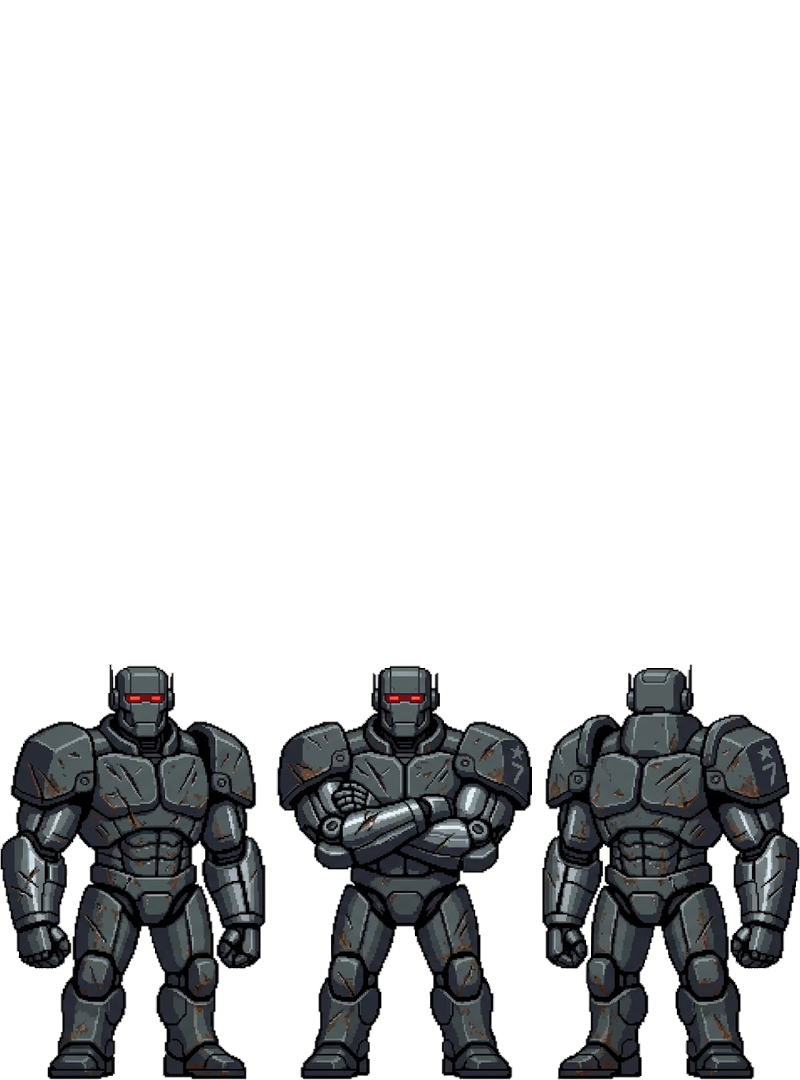
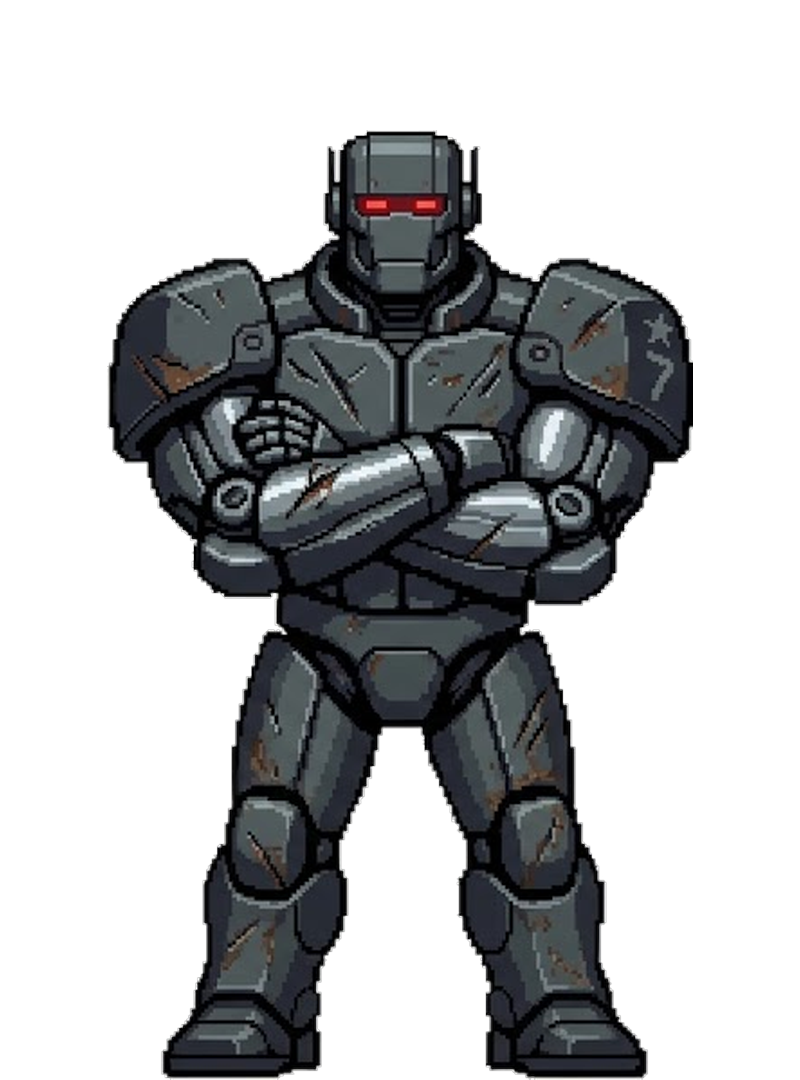
Corrigido Unit-7 triplicado e atualizada galeria no GDD
- Sprite Unit-7 (v1.0) havia sido gerado com 3 instancias identicas do robo
  lado a lado no PNG. Extraido apenas o terco central do raw original,
  reaplicado pipeline flood-fill + normalize. Nova versao v1.1 substitui a
  v1.0 em game/characters/unit7/unity 7.png.
- Versao v1.0 (triplicada) preservada em _backups/ com timestamp.
- Galeria de evolucao no GDD expandida para 3 colunas (v0.5 placeholder,
  v1.0 descartado triplicado, v1.1 atual) com nota explicativa sobre o
  comportamento inesperado da IA.

diff --git a/Documentação/GDD - J3 Projeto.md b/Documentação/GDD - J3 Projeto.md
@@ -766,9 +766,11 @@ Comparação lado a lado entre as duas fases:
 
 #### Unit-7
 
-| v0.5 (anterior) | v1.0 (atual) |
-|:-:|:-:|
-| ![Unit-7 antigo](../Projeto/J3%20Project/game/characters/unit7/_backups/unity%207_20260418_175651.png) | ![Unit-7 atual](../Projeto/J3%20Project/game/characters/unit7/unity%207.png) |
+| v0.5 (placeholder) | v1.0 (descartado — triplicado) | v1.1 (atual) |
+|:-:|:-:|:-:|
+| ![Unit-7 v0.5](../Projeto/J3%20Project/game/characters/unit7/_backups/unity%207_20260418_175651.png) | ![Unit-7 v1.0](../Projeto/J3%20Project/game/characters/unit7/_backups/unity%207_20260419_091513.png) | ![Unit-7 v1.1](../Projeto/J3%20Project/game/characters/unit7/unity%207.png) |
+
+> **Nota:** a primeira regeração via IA (v1.0) saiu com 3 cópias idênticas do robô lado a lado no mesmo PNG — a IA interpretou a descrição de "imponente" como múltiplas instâncias. Essa versão foi arquivada em `_backups/` e a v1.1 foi obtida cropando a instância central do mesmo raw e aplicando o pipeline de pós-processamento novamente.
 
 #### Dra. Elena
 
